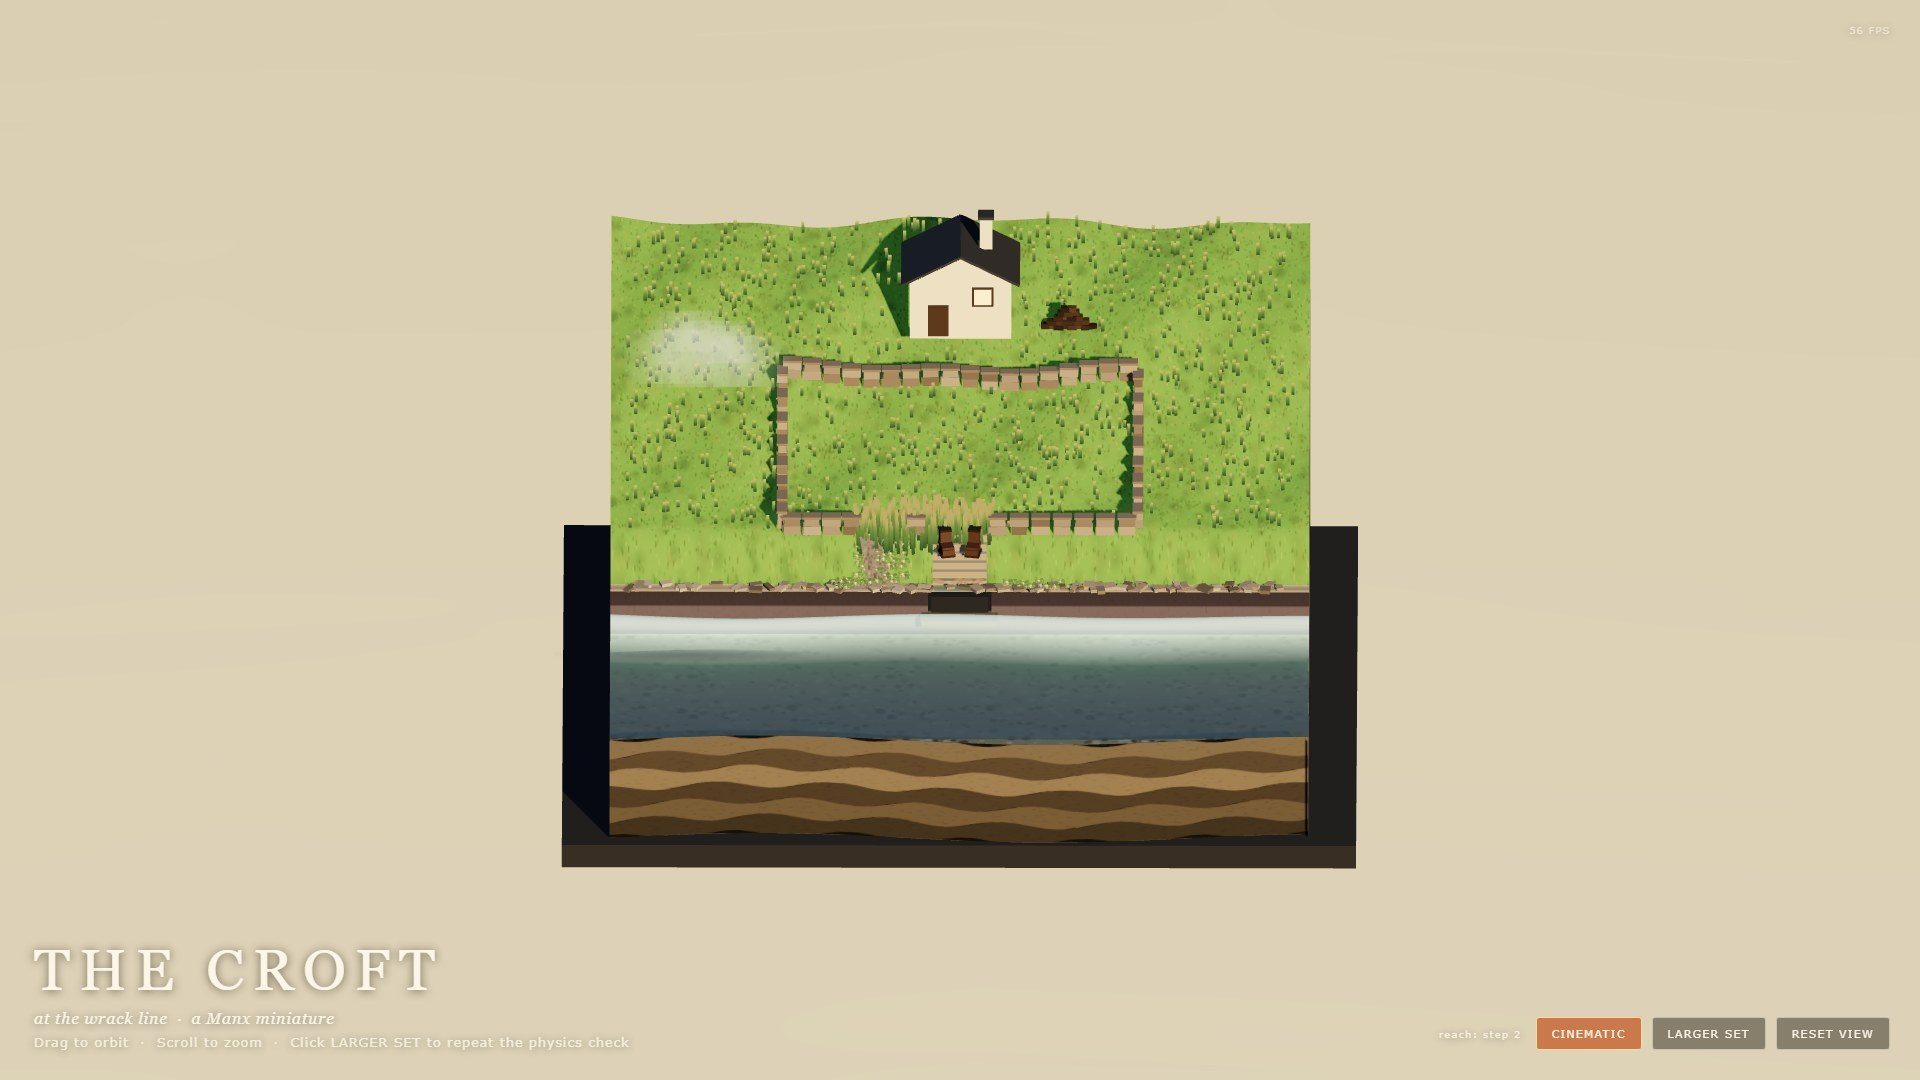
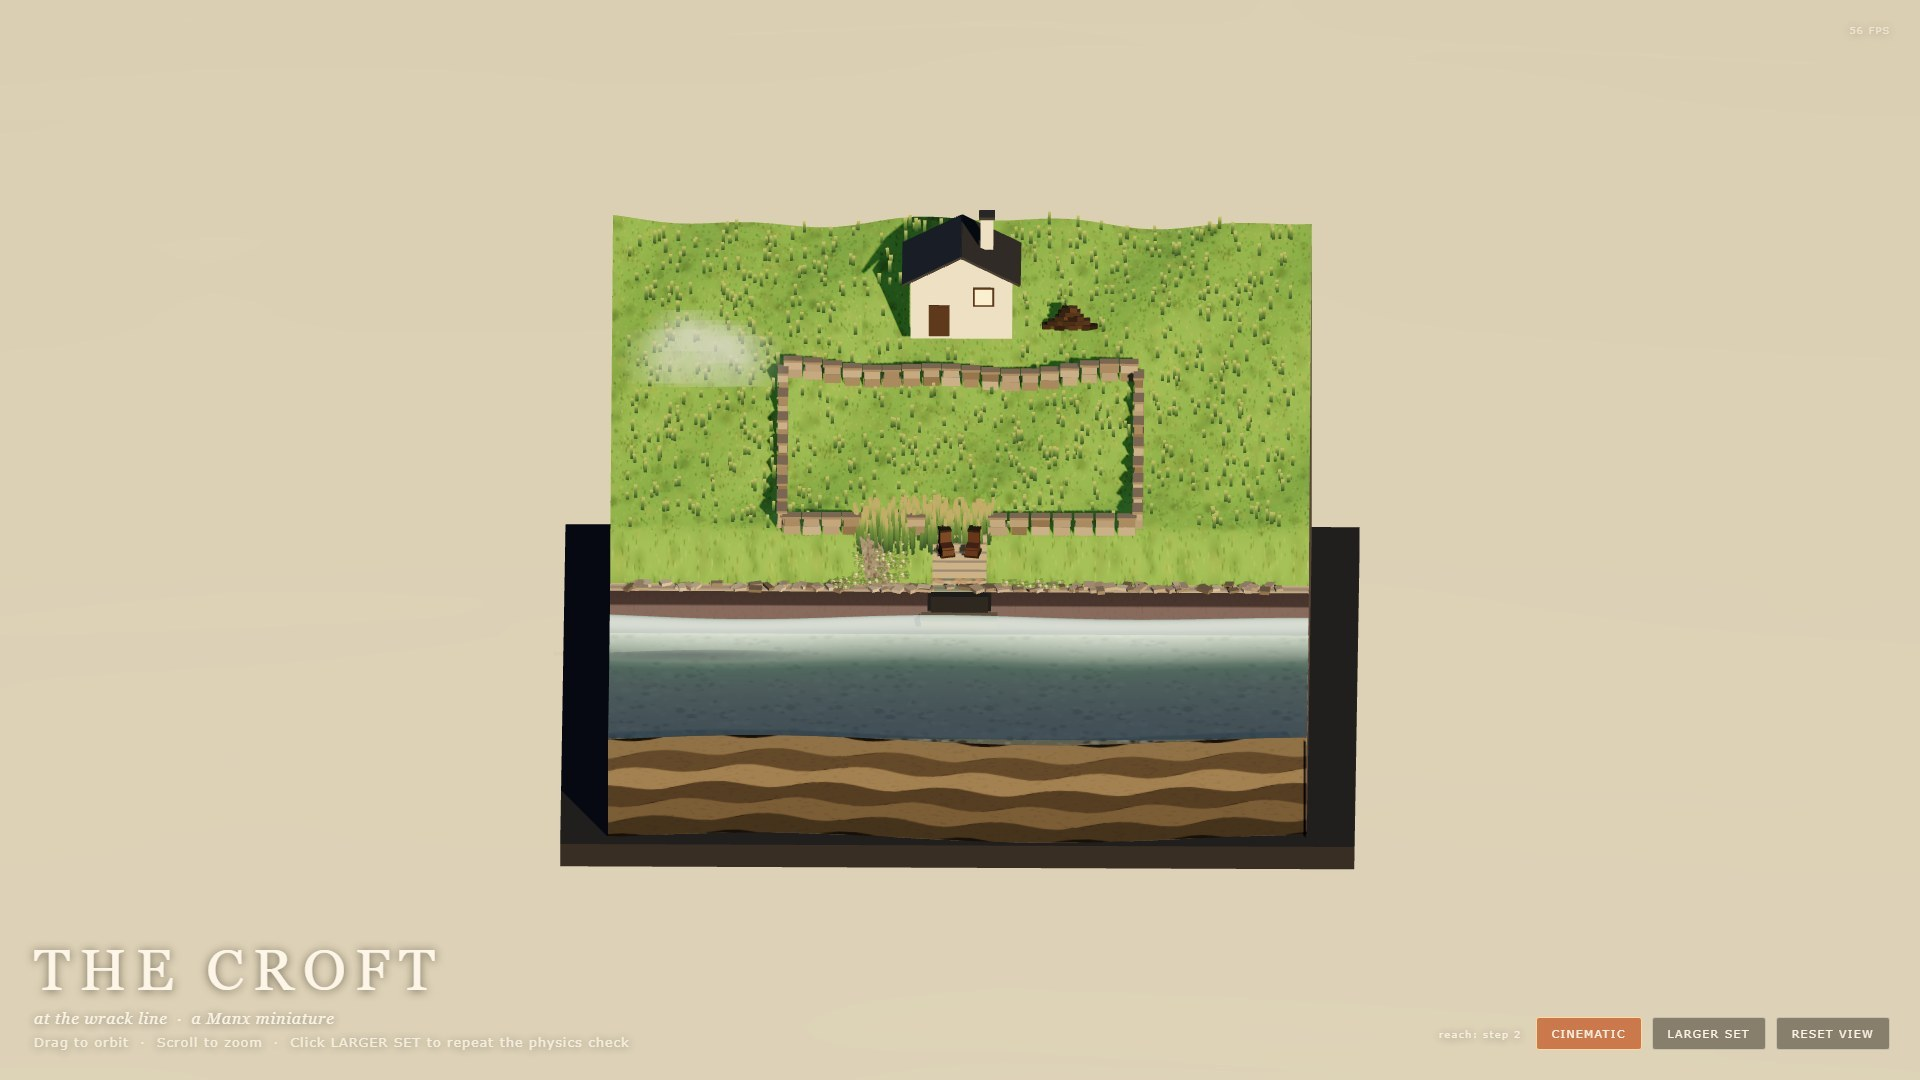
Gallery: refresh the croft clip and thumbnail; recorder reports capture vs file fps

diff --git a/gallery/model-testing/inkling-2-mini-the-croft.html b/gallery/model-testing/inkling-2-mini-the-croft.html
@@ -160,7 +160,7 @@ footer{border-top:1px solid var(--line);margin:84px 0 0;padding:26px 0 60px;disp
   <p class="gal-meta">Inkling-2-Mini &middot; DeepSeek Harness &middot; 661 KB &middot; 23 Nov 2026</p>
   <div class="gal-stats"><div class="gal-stat"><span class="gal-stat-k">goal sent</span><span class="gal-stat-v">22 Nov 2026 15:28</span></div><div class="gal-stat"><span class="gal-stat-k">build finished</span><span class="gal-stat-v">23 Nov 2026 00:16</span></div><div class="gal-stat"><span class="gal-stat-k">goal &rarr; build</span><span class="gal-stat-v">8 h 47 m</span></div><div class="gal-stat"><span class="gal-stat-k">first pass</span><span class="gal-stat-v">29 min</span></div><div class="gal-stat"><span class="gal-stat-k">follow-ups</span><span class="gal-stat-v">4</span></div><div class="gal-stat"><span class="gal-stat-k">model steps</span><span class="gal-stat-v">472</span></div><div class="gal-stat"><span class="gal-stat-k">tool calls</span><span class="gal-stat-v">478</span></div></div>
   
-  <figure class="gal-hero"><img src="../../demos/thumbs/model-testing/inkling-2-mini-the-croft.jpg?v=1795406561-142773" alt="The Croft at the Wrack Line — Inkling-2-Mini, running" width="1280" height="800"><figcaption>Inkling-2-Mini &middot; 23 Nov 2026 &middot; preview</figcaption></figure>
+  <figure class="gal-hero"><img src="../../demos/thumbs/model-testing/inkling-2-mini-the-croft.jpg?v=1795406808-143049" alt="The Croft at the Wrack Line — Inkling-2-Mini, running" width="1280" height="800"><figcaption>Inkling-2-Mini &middot; 23 Nov 2026 &middot; preview</figcaption></figure>
 
   <section class="gal-sec">
     <div class="gal-sec-h"><span class="gal-sec-n">01</span><div class="gal-sec-t">The build</div><span class="gal-sec-rule"></span></div>

diff --git a/gallery.html b/gallery.html
@@ -855,7 +855,7 @@ footer{border-top:1px solid var(--line);margin:84px 0 0;padding:26px 0 60px;disp
       <summary><span class="gal-h-t">DeepSeek Harness</span><span class="gal-h-c">1 build</span></summary>
       <div class="gal-grid">
       <a class="gal-card" href="gallery/model-testing/inkling-2-mini-the-croft.html">
-        <span class="gal-thumbwrap"><img src="demos/thumbs/model-testing/inkling-2-mini-the-croft.jpg?v=1795406561-142773" alt="The Croft at the Wrack Line — Inkling-2-Mini" loading="lazy"></span>
+        <span class="gal-thumbwrap"><img src="demos/thumbs/model-testing/inkling-2-mini-the-croft.jpg?v=1795406808-143049" alt="The Croft at the Wrack Line — Inkling-2-Mini" loading="lazy"></span>
         <div class="gal-body">
           <div class="gal-t">The Croft at the Wrack Line</div>
           <div class="gal-m">Inkling-2-Mini</div>

diff --git a/tools/dsh_daily/record.py b/tools/dsh_daily/record.py
@@ -148,7 +148,8 @@ async def _record_one(call, js, slug: str, url: str, out_mp4: pathlib.Path, stat
         await call("Page.stopScreencast")
         state["recording"] = False
     elapsed = time.time() - started
-    log(f"{slug}: captured {len(frames)} frames in {elapsed:.1f}s = {len(frames)/elapsed:.1f} fps")
+    log(f"{slug}: captured {len(frames)} frames in {elapsed:.1f}s = {len(frames)/elapsed:.1f} fps"
+        f" (muxed at 30 fps)")
     if not frames:
         raise RuntimeError("no frames captured")
 
@@ -175,12 +176,15 @@ async def _record_one(call, js, slug: str, url: str, out_mp4: pathlib.Path, stat
         Image.open(io.BytesIO(best[1])).convert("RGB").save(THUMBS / f"{slug}.jpg", quality=88)
 
     probe = json.loads(subprocess.run([FFPROBE, "-v", "error", "-show_entries",
-        "stream=width,height,codec_name,duration:format=size", "-of", "json", str(out_mp4)],
+        "stream=width,height,codec_name,duration,r_frame_rate:format=size", "-of", "json", str(out_mp4)],
         capture_output=True, text=True).stdout)
     st = probe["streams"][0]
     size = int(probe["format"]["size"])
     dur = float(st["duration"])
-    log(f"{slug}: {st['width']}x{st['height']} {st['codec_name']} {dur:.1f}s {size/1e6:.1f} MB")
+    num, _, den = (st.get("r_frame_rate") or "30/1").partition("/")
+    out_fps = round(float(num) / float(den or 1), 1)
+    log(f"{slug}: {st['width']}x{st['height']} {st['codec_name']} {dur:.1f}s {size/1e6:.1f} MB"
+        f" (captured {len(frames)/elapsed:.1f} fps, file {out_fps} fps)")
     problems = []
     if not 57 <= dur <= 63:
         problems.append(f"duration {dur:.1f}s")
@@ -200,7 +204,8 @@ async def _record_one(call, js, slug: str, url: str, out_mp4: pathlib.Path, stat
     motion = round(_diff(samples[2], samples[58]), 1)
 
     return dict(slug=slug, clip=str(out_mp4), bytes=size, seconds=round(dur, 1),
-                fps=round(fps, 1), frames=len(frames), cinematic=cinematic,
+                capture_fps=round(fps, 1), frames=len(frames),
+                fps=out_fps, cinematic=cinematic,
                 cinematic_clicked=clicked, pre_motion=round(pre_motion, 1),
                 motion=motion, problems=problems, thumb=best[1] is not None)
 
